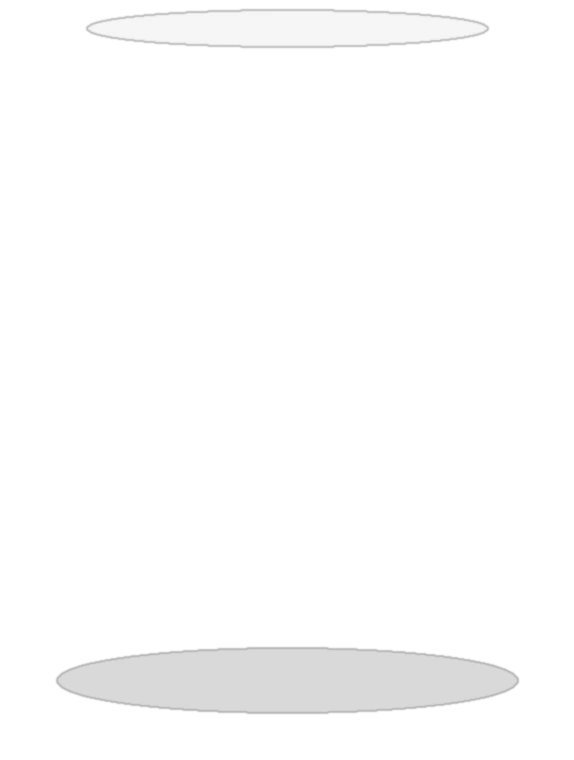
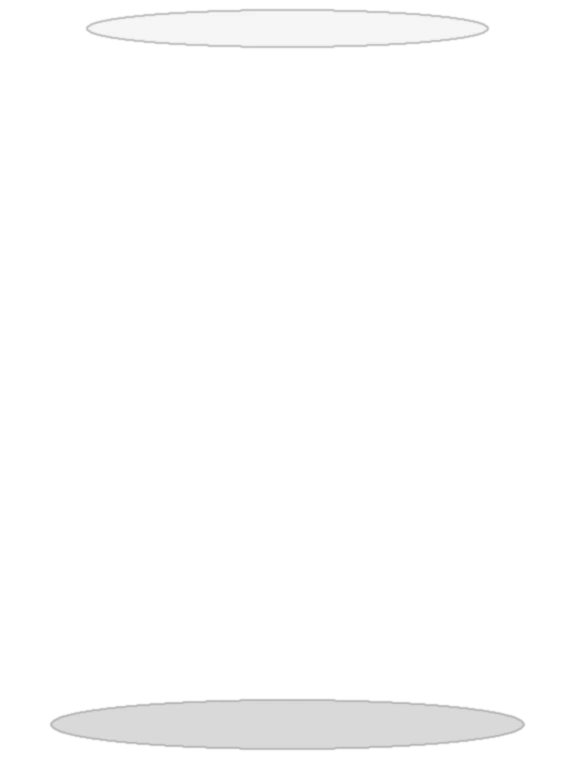
Clear jar: gifts rest on the jar bottom (lower floor, see-through glass base)

Changed region(s): [[0.0889, 0.8474, 0.9181, 0.9987]]

diff --git a/packages/overlay/public/giftjar.html b/packages/overlay/public/giftjar.html
@@ -93,9 +93,9 @@
         openY: -338, openHW: 92, rimHW: 102, topY: -362, fullY: -290, maxHW: 130,
       },
       clear: { // โหลแก้วใสสมจริง (ภาพ GPT พื้นใส docs/clearjar/) — สัดส่วน/ขนาด/โทนสีเท่าโหล TikFinity (สูง ~285px ทุกจอ, กว้าง:สูง 0.76) · ผนังด้านในวัดจากภาพ
-        prof: [[-312, 98], [-300, 107], [-292, 115], [-285, 122], [-276, 127], [-266, 130], [-58, 130], [-46, 124], [-36, 110]],
+        prof: [[-312, 98], [-300, 107], [-292, 115], [-285, 122], [-276, 127], [-266, 130], [-50, 130], [-34, 125], [-24, 116], [-16, 104]],
         hw: (y) => profileHW(SHAPES.clear.prof, y),
-        openY: -312, openHW: 98, rimHW: 108, topY: -380, fullY: -282, maxHW: 130, floor: -36, backA: 0.18, noClear: true, noShadow: true, px: 0.75, center: true,
+        openY: -312, openHW: 98, rimHW: 108, topY: -380, fullY: -282, maxHW: 130, floor: -16, backA: 0.18, noClear: true, noShadow: true, px: 0.75, center: true,
         image: { src: 'themes/jar-clear.webp', back: 'themes/jar-clear-back.webp', x: -143.6, y: -380.0, w: 287.2, h: 380.0 },
       },
       bowl: { // โหลทรงกลมป่อง ปากกว้าง (โหลปลา)
